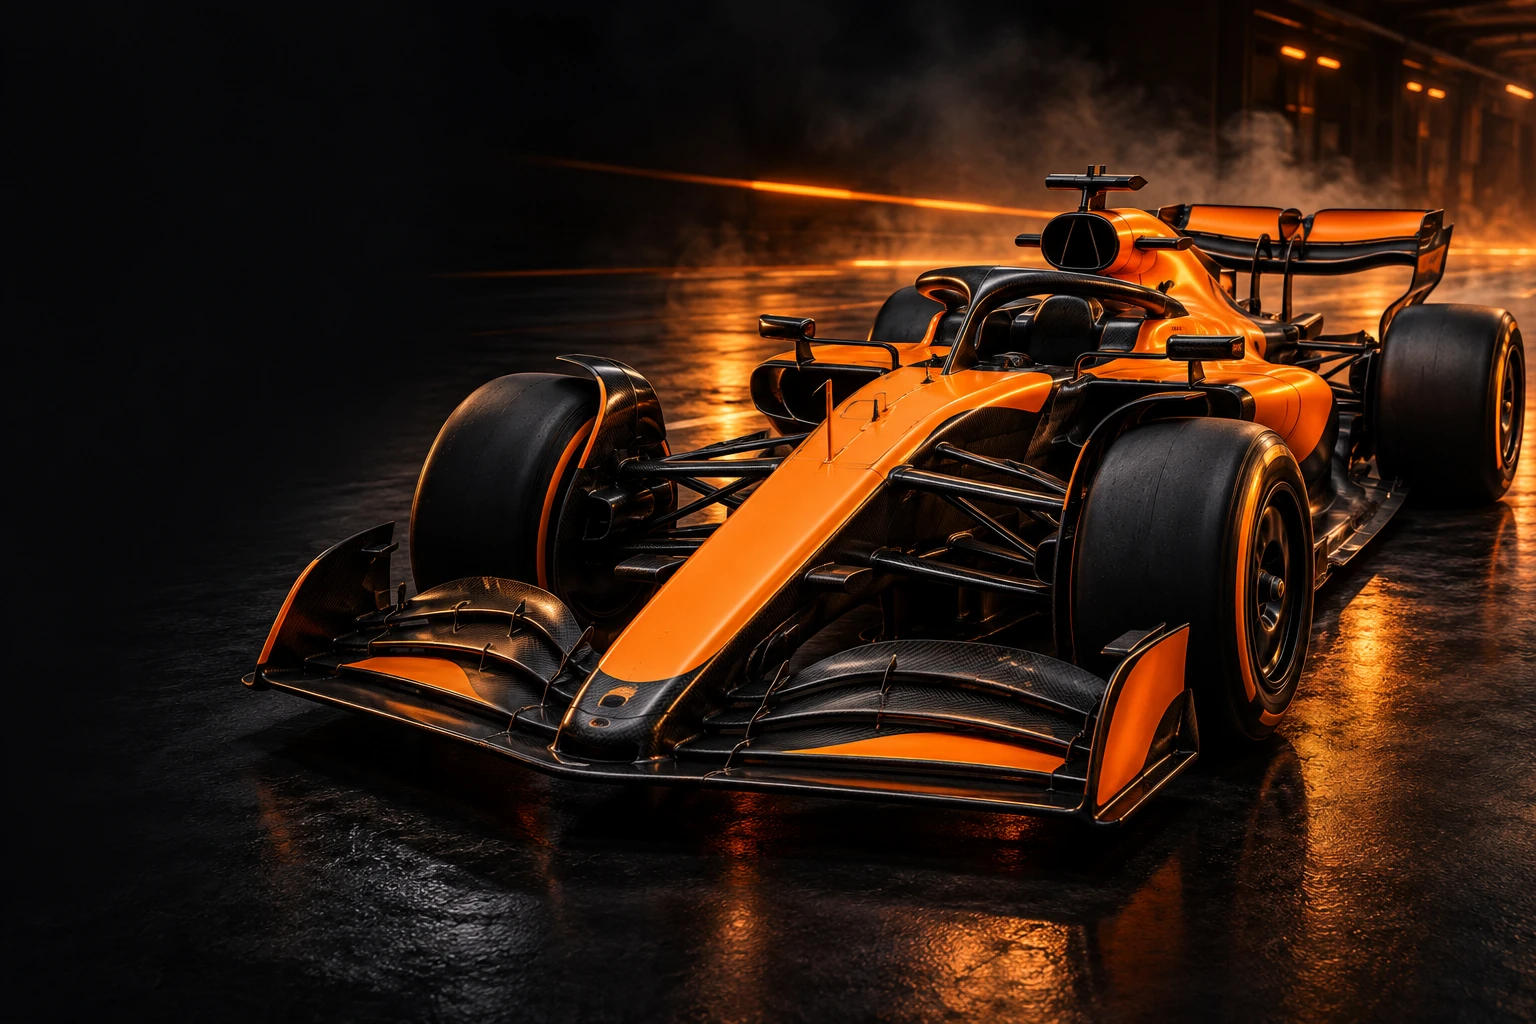
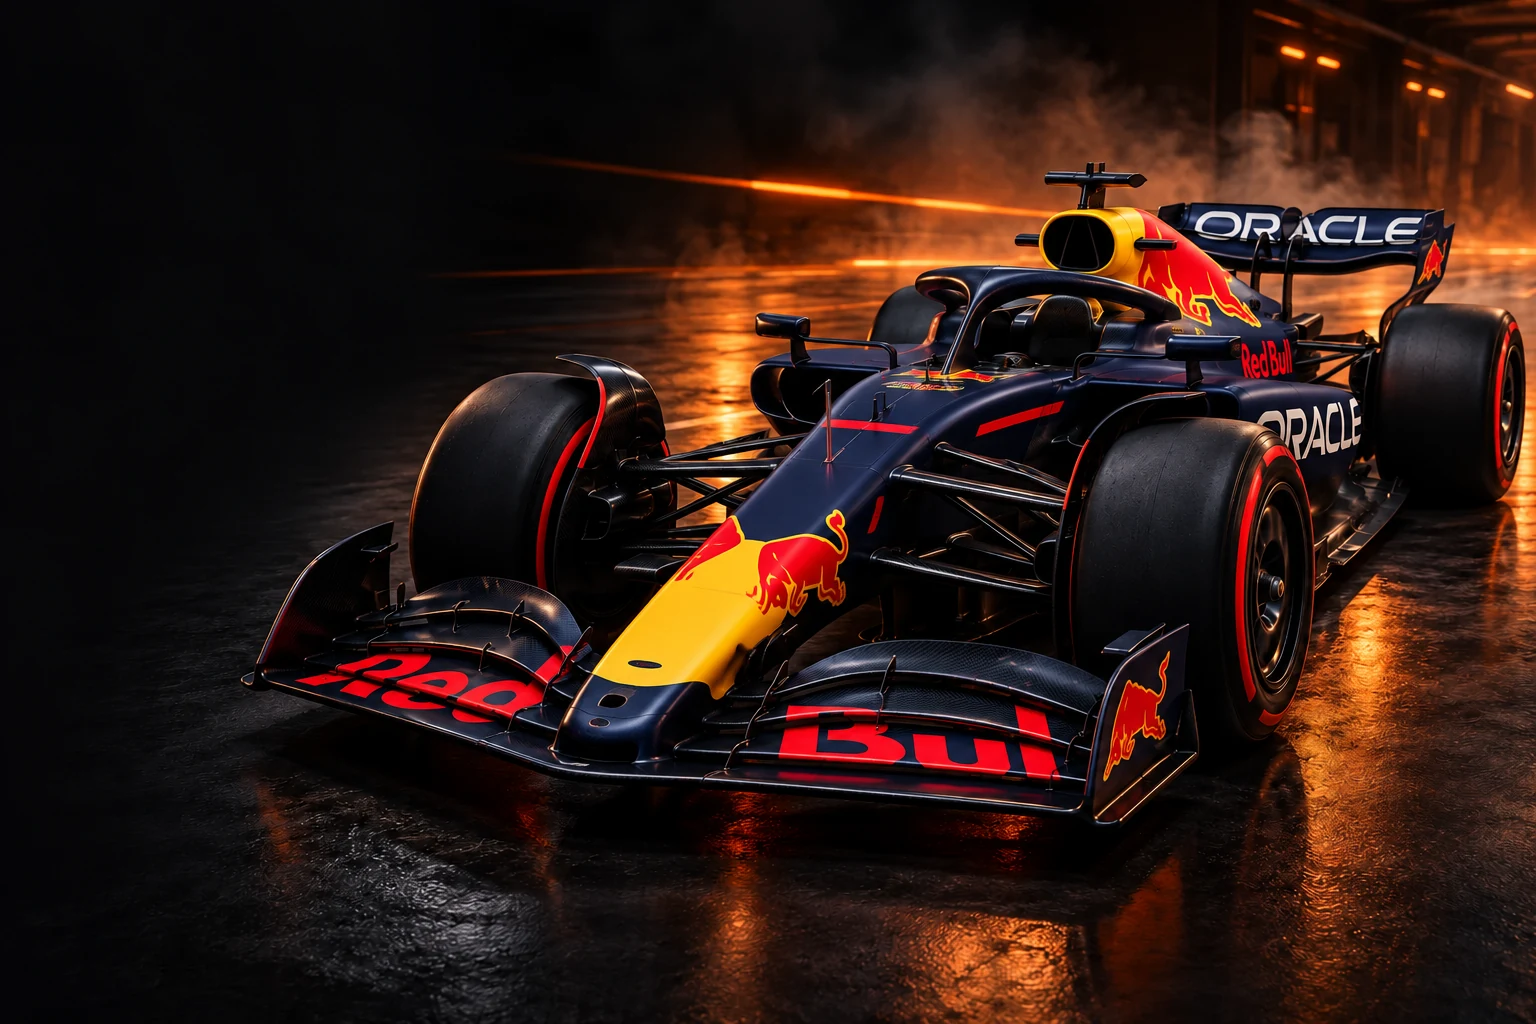
Replace Codex hero car with Red Bull-inspired livery

diff --git a/codex/index.html b/codex/index.html
@@ -14,7 +14,7 @@
     </script>
     <link rel="stylesheet" href="../styles.css">
     <link rel="stylesheet" href="modern.css">
-    <link rel="preload" href="assets/hero-car.webp" as="image">
+    <link rel="preload" href="assets/hero-car.webp?v=redbull-1" as="image">
 
     <!-- PWA -->
     <link rel="manifest" href="../manifest.json">
@@ -82,7 +82,7 @@
     <main id="appContent">
     <section class="race-hero modern-only" aria-labelledby="heroTitle">
         <div class="hero-atmosphere" aria-hidden="true"></div>
-        <div class="hero-art" aria-hidden="true"><span class="hero-season" data-season>2026</span><img class="hero-car" src="assets/hero-car.webp" alt="" fetchpriority="high" width="1536" height="1024"><div class="speed-streak streak-one"></div><div class="speed-streak streak-two"></div><div class="hero-coordinate">PRECISION / PASSION / PERFORMANCE</div></div>
+        <div class="hero-art" aria-hidden="true"><span class="hero-season" data-season>2026</span><img class="hero-car" src="assets/hero-car.webp?v=redbull-1" alt="" fetchpriority="high" width="1536" height="1024"><div class="speed-streak streak-one"></div><div class="speed-streak streak-two"></div><div class="hero-coordinate">PRECISION / PASSION / PERFORMANCE</div></div>
         <div class="hero-copy">
             <div class="eyebrow"><span class="live-dot"></span> ТВОЙ МИР ФОРМУЛЫ 1 <span class="hero-edition">/ <span data-season>2026</span></span></div>
             <h1 id="heroTitle">Живи<br><em>гонкой.</em></h1>
